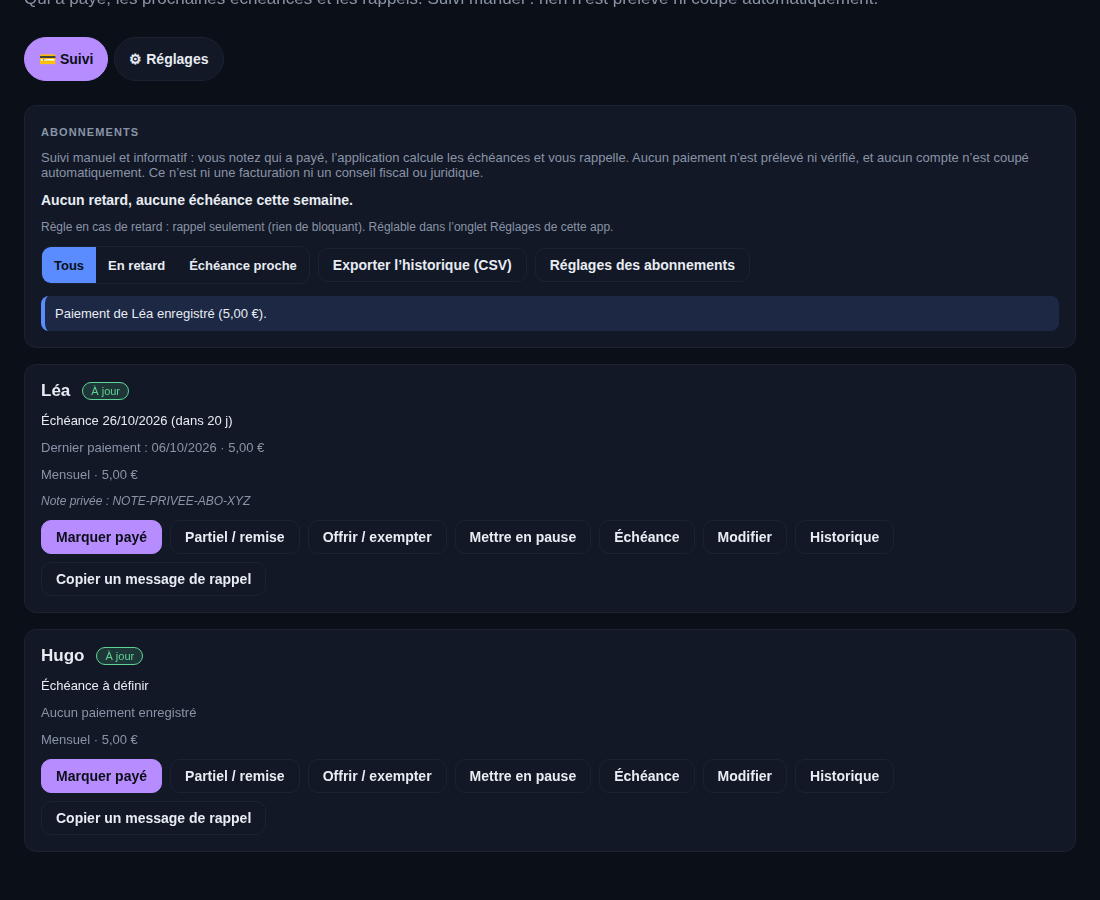
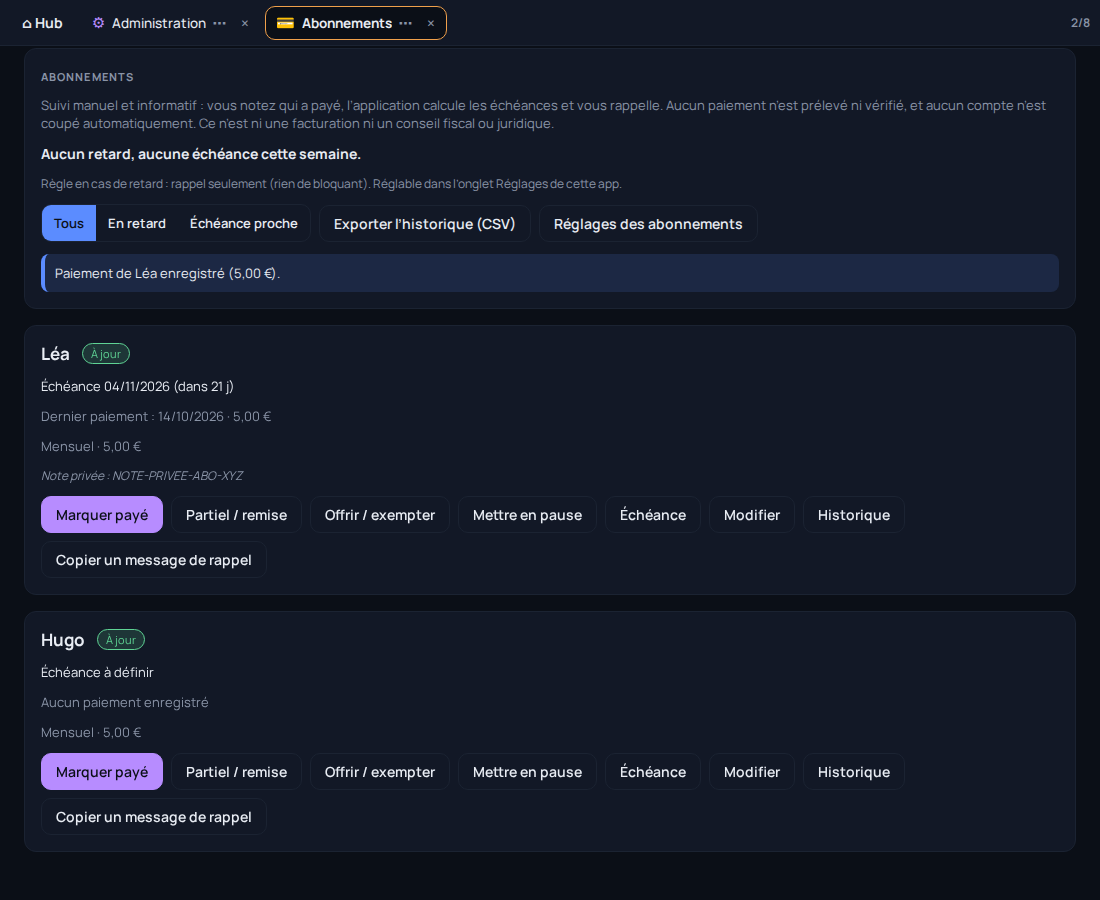
Administration et Abonnements : relues au retour de leur onglet (une autre app a pu écrire)
Claude-Session: https://claude.ai/code/session_01S483ySQsPizWULzXosJ4cc

diff --git a/src/hub/Administration.tsx b/src/hub/Administration.tsx
@@ -104,6 +104,13 @@ export function Administration({ contexte, theme, registre, onRetour, onParametr
       setDonnees(donneesRef.current);
     }
   }, [services, versionComptes]);
+  // Onglet de retour à l'écran (ses effets reprennent) : relu, une autre app (Abonnements…) a pu écrire entre-temps.
+  useEffect(() => {
+    if (services) {
+      donneesRef.current = chargerDonnees(services.stockage);
+      setDonnees(donneesRef.current);
+    }
+  }, [services]);
   const majDonnees = useCallback(
     (changer: (d: DonneesAdmin) => DonneesAdmin) => {
       // Toujours à partir de ce qui est enregistré : une réception entre-temps n'est pas écrasée.

diff --git a/src/hub/abonnements/AppAbonnements.tsx b/src/hub/abonnements/AppAbonnements.tsx
@@ -68,6 +68,9 @@ export function AppAbonnements({ contexte, theme, onRetour }: PropsRacineApp) {
   useEffect(() => {
     if (versionComptes > 0) relire();
   }, [relire, versionComptes]);
+  // Onglet de retour à l'écran (ses effets reprennent) : relu, une autre app a pu écrire entre-temps.
+  // eslint-disable-next-line react-hooks/exhaustive-deps
+  useEffect(() => relire(), []);
 
   const majDonnees = useCallback(
     (changer: (d: DonneesAdmin) => DonneesAdmin) => {
